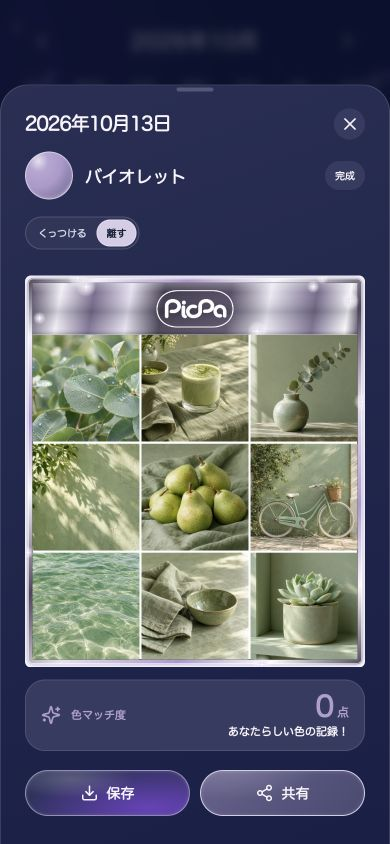
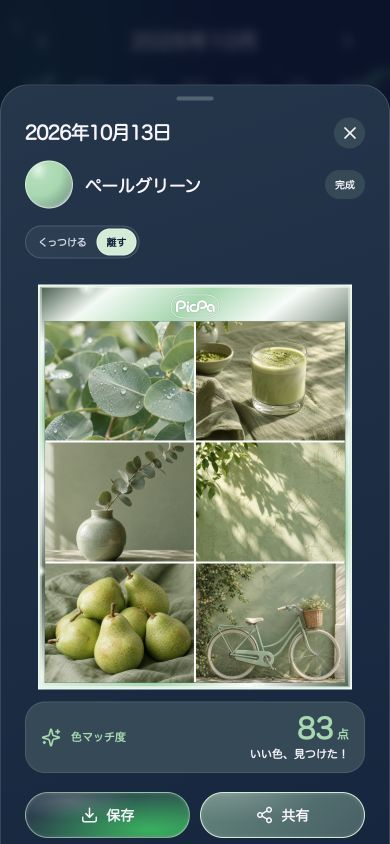
Refine gentle opening motion and square collage frames

diff --git a/src/domain/image.ts b/src/domain/image.ts
@@ -103,7 +103,7 @@ function visibleFrameColor(color: string) {
   return color;
 }
 
-/** Layered metallic edge, drawn outside the photos and their crop area. */
+/** One continuous metal surface; branding simply extends its top edge. */
 function drawColorFrame(
   ctx: CanvasRenderingContext2D,
   x: number,
@@ -111,8 +111,8 @@ function drawColorFrame(
   width: number,
   height: number,
   color: string,
+  headerHeight: number,
 ) {
-  const radius = 18;
   const edge = 16;
   const gradient = ctx.createLinearGradient(x, y, x + width, y + height);
   gradient.addColorStop(0, blendHex(color, 0, 0.58));
@@ -129,7 +129,7 @@ function drawColorFrame(
   ctx.shadowColor = blendHex(color, 255, 0.1);
   ctx.shadowBlur = 16;
   ctx.beginPath();
-  ctx.roundRect(x, y, width, height, radius);
+  ctx.rect(x, y, width, height);
   ctx.fill();
   ctx.shadowBlur = 0;
   ctx.strokeStyle = blendHex(color, 255, 0.74);
@@ -138,16 +138,15 @@ function drawColorFrame(
   ctx.strokeStyle = "#ffffffdc";
   ctx.lineWidth = 2;
   ctx.beginPath();
-  ctx.roundRect(x + 3, y + 3, width - 6, height - 6, radius - 3);
+  ctx.rect(x + 3, y + 3, width - 6, height - 6);
   ctx.stroke();
   ctx.fillStyle = "#ffffff";
   ctx.beginPath();
-  ctx.roundRect(
+  ctx.rect(
     x + edge,
-    y + edge,
+    y + edge + headerHeight,
     width - edge * 2,
-    height - edge * 2,
-    radius - edge,
+    height - edge * 2 - headerHeight,
   );
   ctx.fill();
   ctx.strokeStyle = blendHex(color, 0, 0.6);
@@ -202,50 +201,6 @@ function drawFrameGlints(
   ctx.restore();
 }
 
-/** Reflective color metal with a darker central fold beneath the white logo. */
-function drawMetallicHeader(
-  ctx: CanvasRenderingContext2D,
-  x: number,
-  y: number,
-  width: number,
-  height: number,
-  color: string,
-) {
-  ctx.save();
-  const metal = ctx.createLinearGradient(x, y, x + width, y + height);
-  metal.addColorStop(0, blendHex(color, 0, 0.48));
-  metal.addColorStop(0.09, blendHex(color, 255, 0.84));
-  metal.addColorStop(0.19, blendHex(color, 0, 0.3));
-  metal.addColorStop(0.3, blendHex(color, 255, 0.7));
-  metal.addColorStop(0.4, blendHex(color, 0, 0.62));
-  metal.addColorStop(0.6, blendHex(color, 0, 0.5));
-  metal.addColorStop(0.72, blendHex(color, 255, 0.79));
-  metal.addColorStop(0.86, blendHex(color, 0, 0.32));
-  metal.addColorStop(0.96, blendHex(color, 255, 0.93));
-  metal.addColorStop(1, blendHex(color, 0, 0.5));
-  ctx.fillStyle = metal;
-  ctx.fillRect(x, y, width, height);
-  const sheen = ctx.createLinearGradient(x, y, x, y + height);
-  sheen.addColorStop(0, "#ffffff48");
-  sheen.addColorStop(0.18, "#ffffff00");
-  sheen.addColorStop(0.55, "#0c12202a");
-  sheen.addColorStop(0.89, "#ffffff14");
-  sheen.addColorStop(1, "#0c12203d");
-  ctx.fillStyle = sheen;
-  ctx.fillRect(x, y, width, height);
-  // Fine horizontal reflections stay inside the header; photographs are untouched.
-  ctx.globalAlpha = 0.035;
-  for (let row = 2; row < height; row += 3) {
-    ctx.fillStyle = row % 2 ? "#ffffff" : "#11192b";
-    ctx.fillRect(x, y + row, width, 1);
-  }
-  ctx.globalAlpha = 1;
-  ctx.fillStyle = blendHex(color, 255, 0.8);
-  ctx.fillRect(x, y + height - 1, width, 1);
-  ctx.restore();
-  drawFrameGlints(ctx, x + 22, y + 12, width - 44, height - 24, color);
-}
-
 export async function exportCollage(
   count: GridCount,
   photos: PhotoPlacement[],
@@ -282,16 +237,9 @@ export async function exportCollage(
     collageWidth + 32,
     collageHeight + header.height + 32,
     frameColor,
+    header.height,
   );
   if (header.logo) {
-    drawMetallicHeader(
-      ctx,
-      left,
-      headerTop,
-      collageWidth,
-      header.height,
-      frameColor,
-    );
     await drawCollageLogo(ctx, header.logo, left, headerTop);
   }
   for (let i = 0; i < photos.length; i++) {

diff --git a/src/constants/branding.ts b/src/constants/branding.ts
@@ -11,7 +11,9 @@ export const EXPORT_BRAND_LOGO = {
   url: "./branding/picpa-white-logo.svg",
   width: 664,
   height: 330,
-  headerRatio: 0.16,
+  headerRatio: 0.1,
+  logoRatio: 0.165,
+  logoMaxWidth: 170,
 } as const;
 
 export const OPENING_MOTION = {
@@ -24,16 +26,16 @@ export const OPENING_MOTION = {
 
 // Independent of the daily draw, so the opening does not reveal today's color.
 export const OPENING_BUBBLES = [
-  { x: 15, y: 15, size: 78, color: "#6fa9ed", dx: 19, dy: 34, period: 5.8 },
-  { x: 78, y: 18, size: 100, color: "#dba0ce", dx: -24, dy: 40, period: 6.7 },
-  { x: 47, y: 24, size: 23, color: "#b6a0de", dx: 14, dy: 26, period: 4.9 },
-  { x: 25, y: 31, size: 29, color: "#edd592", dx: -17, dy: 31, period: 6.2 },
-  { x: 91, y: 35, size: 42, color: "#8fd9be", dx: -19, dy: 35, period: 5.4 },
-  { x: 7, y: 43, size: 47, color: "#b59ce1", dx: 21, dy: 28, period: 7.1 },
-  { x: 88, y: 54, size: 24, color: "#eca690", dx: -13, dy: 25, period: 5.1 },
-  { x: 18, y: 63, size: 83, color: "#8dd5bd", dx: 24, dy: 39, period: 6.4 },
-  { x: 73, y: 68, size: 89, color: "#85a5ea", dx: -21, dy: 41, period: 5.6 },
-  { x: 46, y: 72, size: 28, color: "#efbc85", dx: 15, dy: 27, period: 4.8 },
-  { x: 8, y: 82, size: 27, color: "#e8a0b8", dx: 16, dy: 30, period: 6.8 },
-  { x: 86, y: 86, size: 37, color: "#a4ccea", dx: -18, dy: 29, period: 6.1 },
+  { x: 15, y: 15, size: 78, color: "#6fa9ed", dx: 19, dy: 34, period: 11.6 },
+  { x: 78, y: 18, size: 100, color: "#dba0ce", dx: -24, dy: 40, period: 13.4 },
+  { x: 47, y: 24, size: 23, color: "#b6a0de", dx: 14, dy: 26, period: 9.8 },
+  { x: 25, y: 31, size: 29, color: "#edd592", dx: -17, dy: 31, period: 12.4 },
+  { x: 91, y: 35, size: 42, color: "#8fd9be", dx: -19, dy: 35, period: 10.8 },
+  { x: 7, y: 43, size: 47, color: "#b59ce1", dx: 21, dy: 28, period: 14.2 },
+  { x: 88, y: 54, size: 24, color: "#eca690", dx: -13, dy: 25, period: 10.2 },
+  { x: 18, y: 63, size: 83, color: "#8dd5bd", dx: 24, dy: 39, period: 12.8 },
+  { x: 73, y: 68, size: 89, color: "#85a5ea", dx: -21, dy: 41, period: 11.2 },
+  { x: 46, y: 72, size: 28, color: "#efbc85", dx: 15, dy: 27, period: 9.6 },
+  { x: 8, y: 82, size: 27, color: "#e8a0b8", dx: 16, dy: 30, period: 13.6 },
+  { x: 86, y: 86, size: 37, color: "#a4ccea", dx: -18, dy: 29, period: 12.2 },
 ] as const;

diff --git a/src/styles/branding.css b/src/styles/branding.css
@@ -8,35 +8,13 @@
   position: relative;
 }
 .completion-brand-header {
-  aspect-ratio: 6.25;
   display: grid;
   place-items: center;
-  background:
-    linear-gradient(
-      180deg,
-      #ffffff38,
-      #ffffff00 18%,
-      #0c12202a 55%,
-      #ffffff14 89%,
-      #0c12203d
-    ),
-    linear-gradient(
-      100deg,
-      color-mix(in srgb, var(--completion-color) 52%, black),
-      color-mix(in srgb, var(--completion-color) 16%, white) 9%,
-      color-mix(in srgb, var(--completion-color) 70%, black) 19%,
-      color-mix(in srgb, var(--completion-color) 30%, white) 30%,
-      color-mix(in srgb, var(--completion-color) 38%, black) 40%,
-      color-mix(in srgb, var(--completion-color) 50%, black) 60%,
-      color-mix(in srgb, var(--completion-color) 21%, white) 72%,
-      color-mix(in srgb, var(--completion-color) 68%, black) 86%,
-      color-mix(in srgb, var(--completion-color) 7%, white) 96%,
-      color-mix(in srgb, var(--completion-color) 50%, black)
-    );
-  border-bottom: 1px solid #ffffff88;
+  /* Transparent: the outer frame's metal continues through this expanded rim. */
+  background: transparent;
 }
 .completion-header-logo {
-  width: 24.5%;
+  width: 100%;
   filter: drop-shadow(0 1px 1px #10152f85);
 }
 .completion-photo-grid:has(.completion-brand-header) .collage-grid {

diff --git a/src/styles/bubbles.css b/src/styles/bubbles.css
@@ -194,7 +194,7 @@ body {
 .home-screen .collage-frame,
 .collage-frame {
   padding: 4px;
-  border-radius: 19px;
+  border-radius: 0;
   background: linear-gradient(
     135deg,
     var(--film-gold),
@@ -206,7 +206,7 @@ body {
   box-shadow: 0 0 14px color-mix(in srgb, var(--accent) 12%, transparent);
 }
 .collage-grid {
-  border-radius: 15px;
+  border-radius: 0;
   overflow: hidden;
 }
 .home-screen .empty-tile,
@@ -214,10 +214,11 @@ body {
   background: var(--surface-soft);
   color: var(--accent-readable);
   border-color: color-mix(in srgb, var(--accent-soft) 43%, transparent);
-  border-radius: 10px;
+  border-radius: 0;
 }
 .home-screen .spacing-joined .empty-tile {
-  border-radius: 0;
+  /* Keep each empty slot legible even without a gap between photographs. */
+  border: 1px solid color-mix(in srgb, var(--accent-soft) 60%, transparent);
 }
 .collage-frame.inactive {
   opacity: 0.73;

diff --git a/src/styles/home.css b/src/styles/home.css
@@ -190,7 +190,7 @@
 }
 .collage-frame {
   background: var(--surface);
-  border-radius: 15px;
+  border-radius: 0;
   padding: 4px;
   overflow: hidden;
   flex: none;
@@ -215,7 +215,7 @@
   aspect-ratio: 1.25;
   position: relative;
   overflow: hidden;
-  border-radius: 10px;
+  border-radius: 0;
   background: var(--surface-soft);
   touch-action: none;
 }
@@ -406,7 +406,7 @@
   transform: scale(0.97);
 }
 .empty-tile:not(:disabled):active {
-  border-radius: 17px 12px 18px 10px;
+  border-radius: 0;
 }
 @keyframes liquid-morph {
   0%,
@@ -442,7 +442,7 @@
   height: clamp(78px, 12.2dvh, 110px);
 }
 .home-screen .empty-tile {
-  border-radius: 14px;
+  border-radius: 0;
   background: color-mix(in srgb, var(--accent) 4%, var(--page));
 }
 .home-screen .spacing-joined .empty-tile {

diff --git a/src/components/CompletionPreview.tsx b/src/components/CompletionPreview.tsx
@@ -34,8 +34,13 @@ export function CompletionPreview({
       >
         <div className="completion-photo-grid">
           {logo && (
-            <div className="completion-brand-header">
-              <BrandLogo variant="white" className="completion-header-logo" />
+            <div
+              className="completion-brand-header"
+              style={{ aspectRatio: 1 / EXPORT_BRAND_LOGO.headerRatio }}
+            >
+              <div style={{ width: `${EXPORT_BRAND_LOGO.logoRatio * 100}%` }}>
+                <BrandLogo variant="white" className="completion-header-logo" />
+              </div>
             </div>
           )}
           <CollageGrid

diff --git a/src/screens/Home.tsx b/src/screens/Home.tsx
@@ -140,12 +140,8 @@ export function Home({
             exit={{ opacity: 0, y: -8 }}
             transition={ritual.reduced ? { duration: 0 } : BUBBLE_MOTION}
           >
-            <h2>
-              {ritual.busy
-                ? ""
-                : today.colorId
-                  ? color.name
-                  : "今日の色を見つけよう"}
+            <h2 aria-hidden={!today.colorId || ritual.busy}>
+              {!ritual.busy && today.colorId ? color.name : ""}
             </h2>
           </motion.div>
         </AnimatePresence>

diff --git a/src/domain/branding.ts b/src/domain/branding.ts
@@ -28,7 +28,10 @@ export function collageBrandHeader(collageWidth: number, enabled: boolean) {
   const height = enabled
     ? Math.round(collageWidth * EXPORT_BRAND_LOGO.headerRatio)
     : 0;
-  const width = Math.min(250, collageWidth * 0.245);
+  const width = Math.min(
+    EXPORT_BRAND_LOGO.logoMaxWidth,
+    collageWidth * EXPORT_BRAND_LOGO.logoRatio,
+  );
   const logo: CollageLogoPlacement | undefined = enabled
     ? {
         x: collageWidth / 2,

diff --git a/src/styles/modal.css b/src/styles/modal.css
@@ -276,7 +276,7 @@
   max-width: 100%;
   max-height: 48dvh;
   object-fit: contain;
-  border-radius: 6px;
+  border-radius: 0;
 }
 .exported-collage .color-match {
   margin: 12px auto 0;

diff --git a/src/styles/calendar.css b/src/styles/calendar.css
@@ -163,7 +163,7 @@
   font-weight: 750;
 }
 .detail-collage {
-  border-radius: 15px;
+  border-radius: 0;
   overflow: hidden;
 }
 .detail-actions {

diff --git a/README.md b/README.md
@@ -83,9 +83,9 @@ src/
 
 オープニングのカプセル型ロゴは `public/branding/picpa-logo-source.png` に同梱しています。元の文字と虹色の縁をそのまま描画し、位置を固定します。完成画像では添付された白ロゴを `picpa-white-logo-source.png` として保持し、`picpa-white-logo.svg` の描画マスクで暗い背景だけを透明にします。文字形は描き直しません。SVGの再生成は `python3 scripts/export-white-logo.py` で行えます。
 
-ロゴONの場合はコラージュの上部に、写真幅の約16%の高さの金属調の帯を追加し、白ロゴを中央へ配置します。帯は今日の色の反射・細い筋・光点を持ち、外周の縁と質感を揃えています。写真は帯の下から配置し、ロゴは写真に重なりません。ロゴOFFでは帯もなくなります。既存のロゴ表示ON/OFF設定を引き継ぎ、ロゴと帯は色の採点に含めません。カレンダー詳細の「くっつける／離す」はボタンの幅に合わせて表示します。
+ロゴONの場合はコラージュの上縁を写真幅の約10%の高さだけ広げ、幅約16.5%の小さな白ロゴを中央へ配置します。外周から上部まで1枚の連続した金属調のグラデーションで描き、別素材の帯や境目は追加しません。写真は広げた縁の下から配置し、ロゴは写真に重なりません。ロゴOFFでは上部の余白もなくなります。既存のロゴ表示ON/OFF設定を引き継ぎ、ロゴと縁は色の採点に含めません。写真枠と保存画像の角は四角に統一し、ホームの「くっつける」では空き枠に細い実線のガイドを表示します。カレンダー詳細の「くっつける／離す」はボタンの幅に合わせて表示します。
 
-`components/OpeningScreen.tsx` は起動時に約2.6秒表示し、0.6秒でホームへフェードします。ホームと共通の `BubbleSurface` を12個の色違いのバブルに使用し、それぞれ異なる周期と位相の連続した曲線で浮遊させます。`ui/openingMotion.ts` が移動位置を計算し、終了時はrequestAnimationFrameを停止します。色は今日の抽選とは独立しています。ロゴをタップするとスキップできます。端末の「視差効果を減らす」設定では浮遊と輪郭変形を止め、待ち時間を短縮します。画面遷移や写真ピッカーから戻る際は再表示せず、アプリのページを新しく読み込んだときだけ表示します。初回チュートリアルはオープニングの終了後に表示します。
+`components/OpeningScreen.tsx` は起動時に約2.6秒表示し、0.6秒でホームへフェードします。ホームと共通の `BubbleSurface` を12個の色違いのバブルに使用し、それぞれ約9.6〜14.2秒のゆっくりした周期と異なる位相の連続した曲線で浮遊させます。ロゴは固定します。`ui/openingMotion.ts` が移動位置を計算し、終了時はrequestAnimationFrameを停止します。色は今日の抽選とは独立しています。ロゴをタップするとスキップできます。端末の「視差効果を減らす」設定では浮遊と輪郭変形を止め、待ち時間を短縮します。画面遷移や写真ピッカーから戻る際は再表示せず、アプリのページを新しく読み込んだときだけ表示します。初回チュートリアルはオープニングの終了後に表示します。
 
 ロゴは起動前に読み込み、IndexedDBの準備を待ってホームへ進みます。読み込み失敗や画像の通信待ちが長い場合でも、オープニングだけで操作が止まらないようにしています。見本画像は `assets/branding/picpa-opening-preview.jpg` と `assets/branding/picpa-collage-preview.jpg` に保存しています。
 
